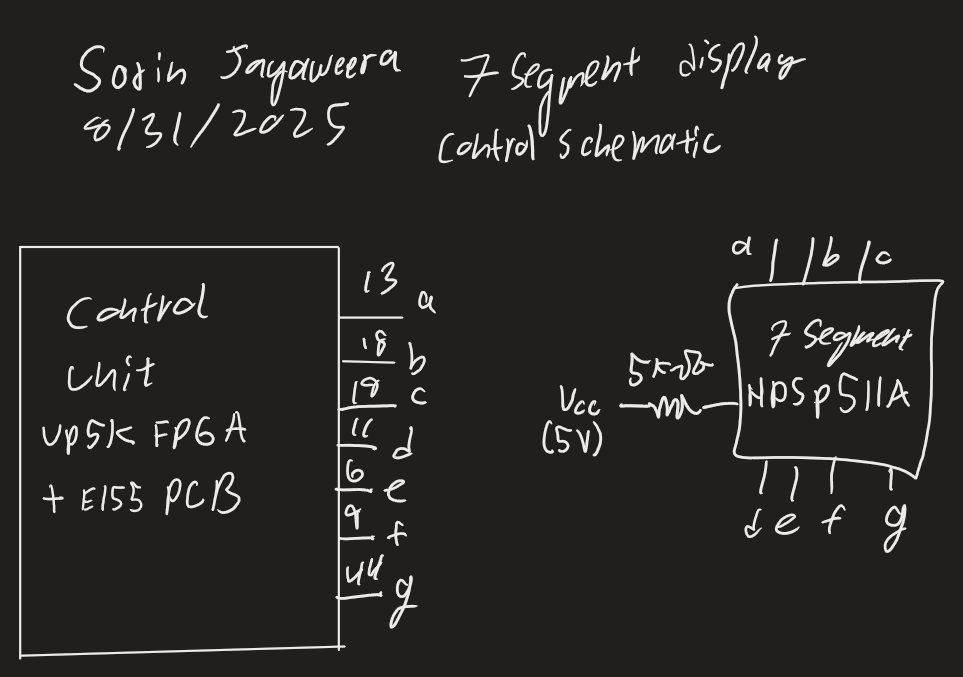
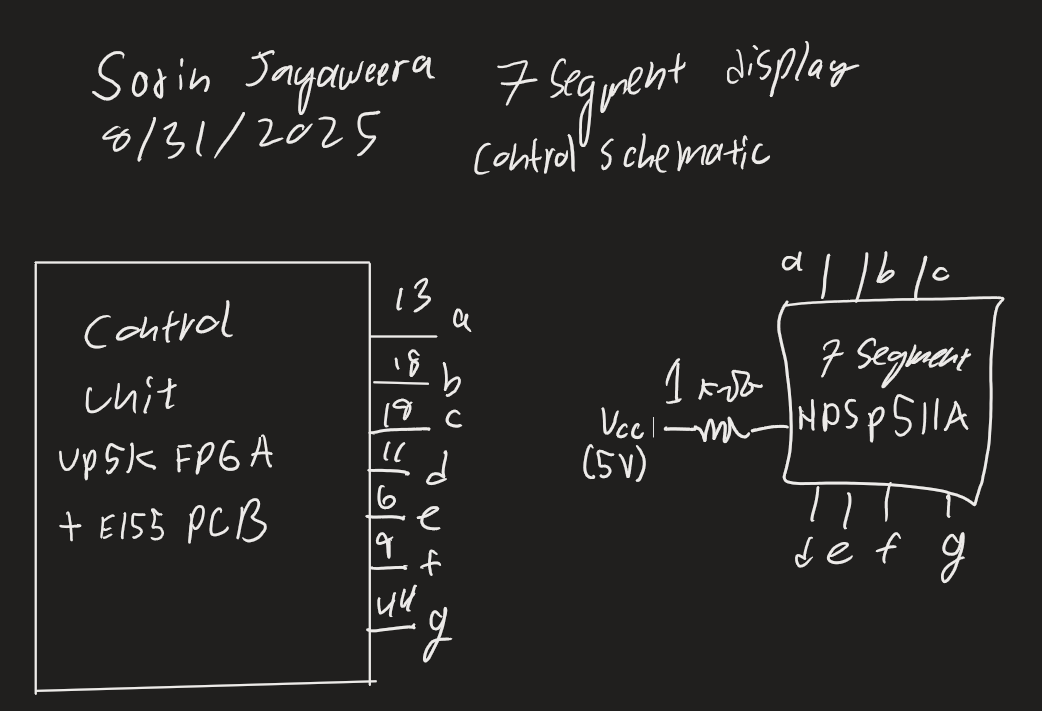
Built site for gh-pages

diff --git a/labs/lab1/lab.html b/labs/lab1/lab.html
@@ -198,6 +198,7 @@ window.Quarto = {
   <li><a href="#schematic" id="toc-schematic" class="nav-link" data-scroll-target="#schematic">Schematic</a></li>
   <li><a href="#pins" id="toc-pins" class="nav-link" data-scroll-target="#pins">Pins:</a></li>
   </ul></li>
+  <li><a href="#results-and-discussion" id="toc-results-and-discussion" class="nav-link" data-scroll-target="#results-and-discussion">Results and Discussion</a></li>
   <li><a href="#conclusion" id="toc-conclusion" class="nav-link" data-scroll-target="#conclusion">Conclusion</a></li>
   <li><a href="#bugs-for-lab" id="toc-bugs-for-lab" class="nav-link" data-scroll-target="#bugs-for-lab">Bugs for lab</a></li>
   <li><a href="#ai-overview" id="toc-ai-overview" class="nav-link" data-scroll-target="#ai-overview">AI Overview</a></li>
@@ -301,8 +302,37 @@ window.Quarto = {
 </section>
 <section id="pins" class="level3">
 <h3 class="anchored" data-anchor-id="pins">Pins:</h3>
-<p>The pins used for the code inputs and outputs are as specified: Inputs: S3: 32 S2: 35 S1: 31 S0: 37 Reset: 23</p>
-<p>Outputs: seg[6]: 13 seg[5]: 18 seg[4]: 19 seg[3]: 11 seg[2]: 6 seg[1]: 9 seg[0]: 44 led[2]: 42 led[1]: 38 led[0]: 28</p>
+<p>The pins used for the code inputs and outputs are as specified:</p>
+<p>Inputs:</p>
+<pre><code>S3: 32
+
+S2: 35
+
+S1: 31
+
+S0: 37
+
+Reset: 23</code></pre>
+<p>Outputs:</p>
+<pre><code>seg[6]: 13 
+
+seg[5]: 18
+
+seg[4]: 19
+
+seg[3]: 11
+
+seg[2]: 6
+
+seg[1]: 9
+
+seg[0]: 44
+
+led[2]: 42
+
+led[1]: 38
+
+led[0]: 28</code></pre>
 <section id="resistor-and-current-calculations" class="level4">
 <h4 class="anchored" data-anchor-id="resistor-and-current-calculations">Resistor and Current Calculations</h4>
 <p>The Resistor was chosen to be 1k <span class="math inline">\(\Omega\)</span>. At minimum there are 2 of them active at once, maximum 7 - both of these situations must be considered for determining the resistor specification.</p>
@@ -310,11 +340,14 @@ window.Quarto = {
 <p>The LEDS are all in parallel, not series. For there to actually be a voltage drop of 1.8V, there must be a 5-1.8 = 3.2v drop across the resistor that is connecting all of the components.</p>
 <p>There are, at minimum, two leds that would be on for the 7 segment hex specific display. This means a maximum of 40mA of current.</p>
 <p>This means that the resistor should be at 3.2v / 40mA = 800 <span class="math inline">\(\Omega\)</span>. For this project, I used 1 <span class="math inline">\(k\Omega\)</span> to give more room for unstable power supply, since we aren’t near the lower limit of current to light all 7 displays.</p>
-<p>For more reference see spec sheet: <embed src="https://www.farnell.com/datasheets/2095789.pdf" class="img-fluid">. ## Results and Discussion</p>
+<p>For more reference see spec sheet: <embed src="https://www.farnell.com/datasheets/2095789.pdf" class="img-fluid">.</p>
+</section>
+</section>
+</section>
+<section id="results-and-discussion" class="level2">
+<h2 class="anchored" data-anchor-id="results-and-discussion">Results and Discussion</h2>
 <p>This brief series of test showed that the hardware is working as expected; The FPGA and MCU were able to properly communicate, and a 7 segment display was properly driven. Further, a 2.4 hz clock signal was generated and used to drive an onboard LED, validated with an oscilloscope.</p>
 <p>All intended tasks were completed successfully. The design could be improved to provide more consistent current supply. A ribbon cable has not yet been constructed due to insufficient supply. A 7 segment display driven by connections to a constant voltage would allow better control of LED brightness. The present setup distributes current across all leds in the 7 segment display, which decreases the brightness.</p>
-</section>
-</section>
 </section>
 <section id="conclusion" class="level2">
 <h2 class="anchored" data-anchor-id="conclusion">Conclusion</h2>
@@ -399,8 +432,10 @@ logic [2:0] eled;
 logic [6:0] eseg;
 
 int vectornum, errors;
+// change this bit width depending on the testvectors you are reading 
 logic [16:0] testvectors[15:0];
 
+// change this to whatever module - top, ssegdisp, or light_status
 top dut(.s(s), .reset(reset), .led(led), .seg(seg));
 
 // generate clock
@@ -413,7 +448,7 @@ always
 initial begin
     
     $display(" reading ");
-    $readmemb("testvectors.tv", testvectors);
+    $readmemb("testvectors.tv", testvectors); // change to the testvector name you are reading
     vectornum = 0; errors = 0;
     reset = 1; #23; reset = 0;
     
@@ -422,17 +457,17 @@ initial begin
 
  always @(posedge clk) 
      begin
-        #1; {s,eled,eseg} = testvectors[vectornum]; // GOOD
+        #1; {s,eled,eseg} = testvectors[vectornum]; // change this to what you want: s and eled, s and eseg, or all three
         $display(" %d %d %d test %d", s,eled,eseg,vectornum);
      end 
      // check results on falling edge of clk
  always @(negedge clk) 
      if (~reset) begin // skip during reset
-        if ({led,seg} !== {eled,eseg}) begin 
+        if ({led,seg} !== {eled,eseg}) begin // change this to be the thing you want to test - led, seg, or both
             errors = errors + 1; // GOOD
         end
      vectornum = vectornum + 1;
-     if (testvectors[vectornum] === 14'bx) begin 
+     if (testvectors[vectornum] === 14'bx) begin //Change this to match the bitwidth
          $display(" %d tests completed with %d errors", vectornum, errors); 
          $stop; 
      end </code></pre>
